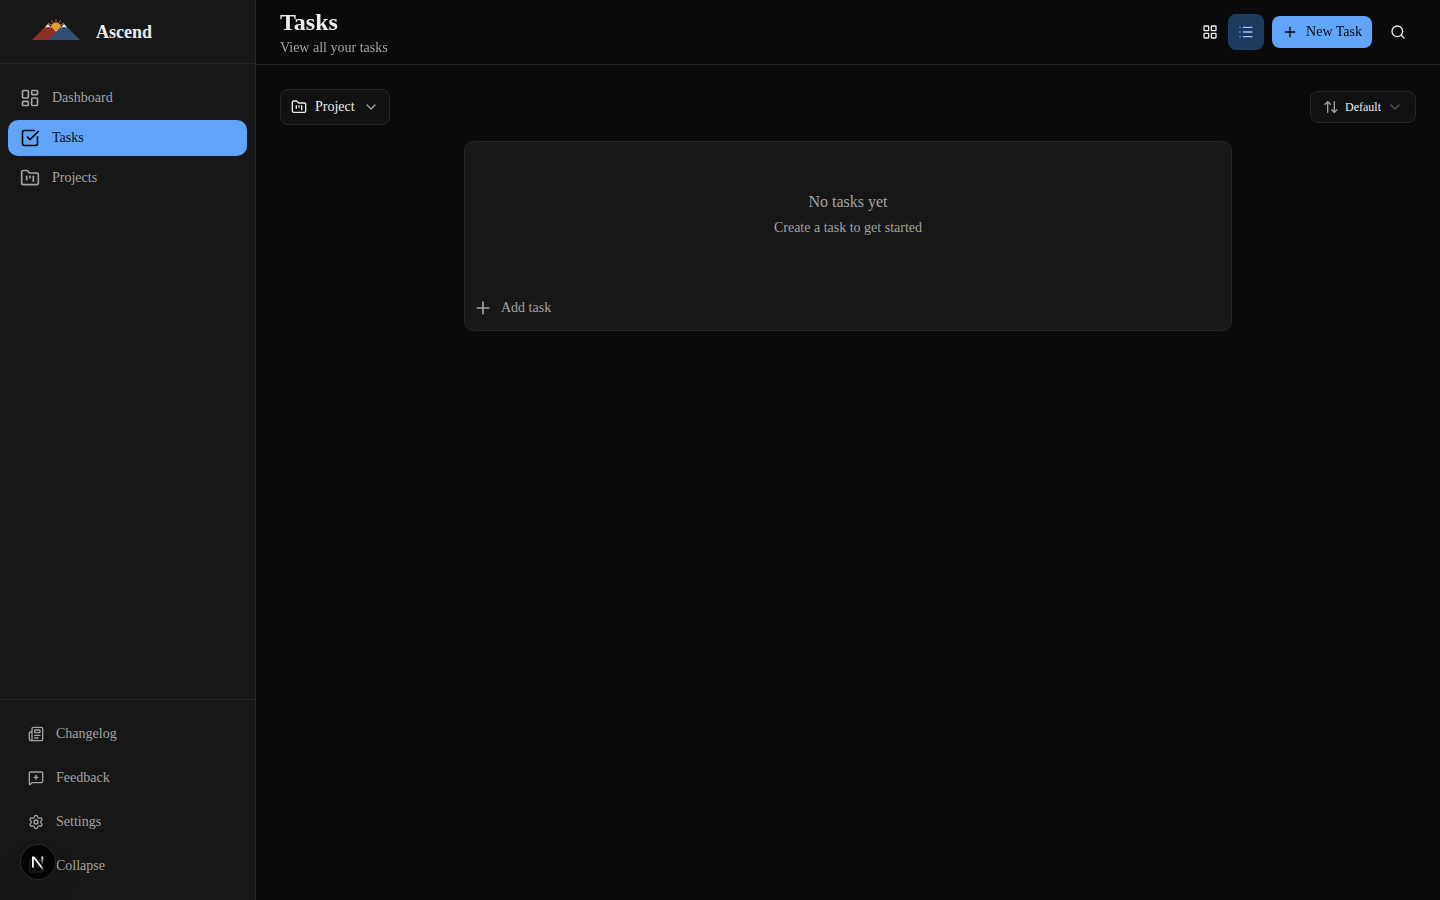
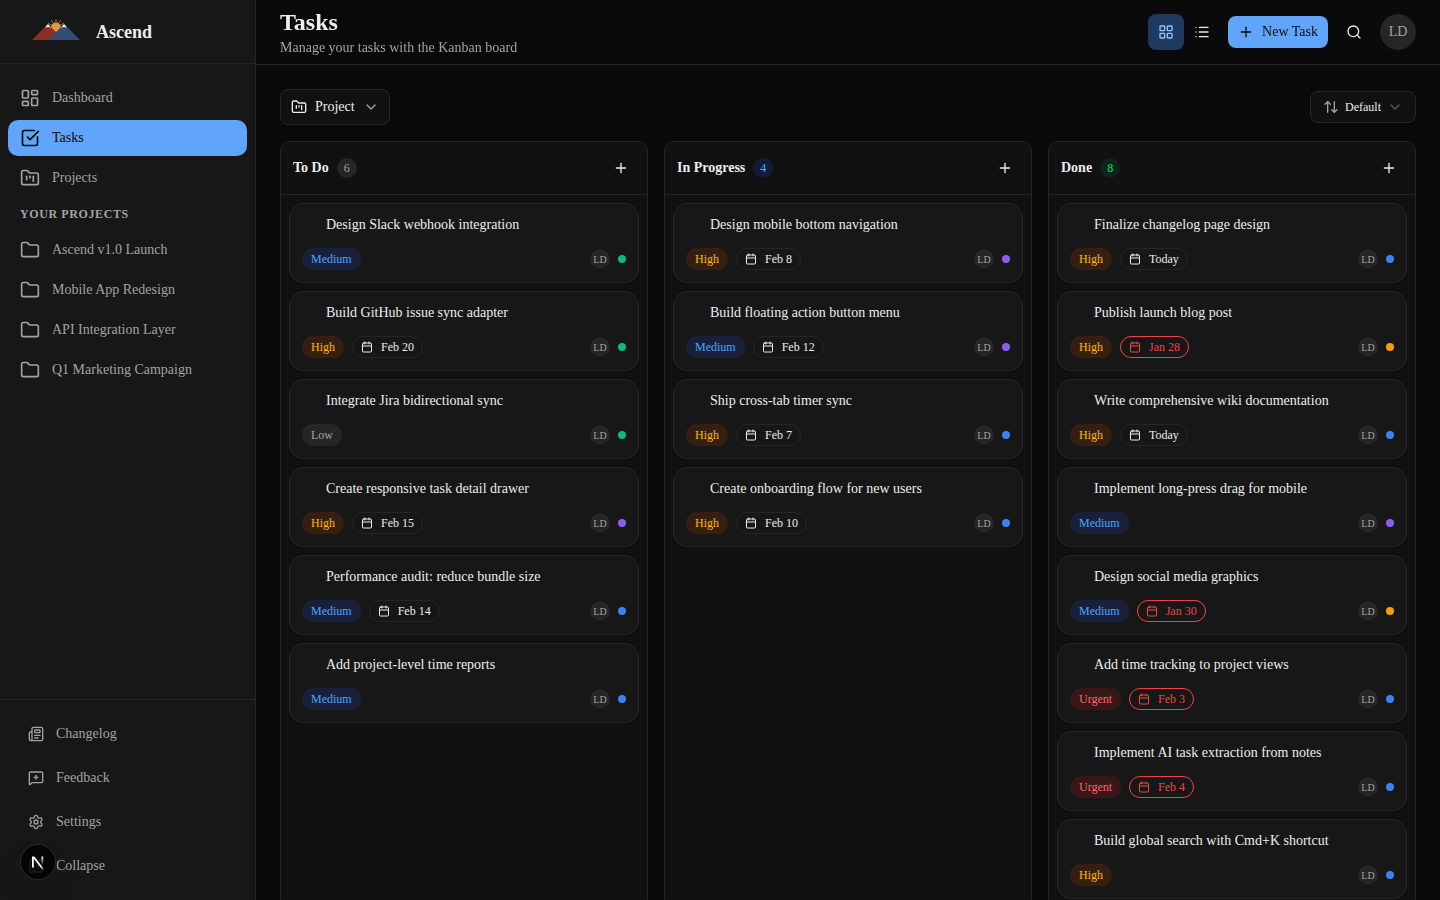
feat: Update wiki screenshots with populated mock data and add more images
Replace empty-state screenshots with fully populated app views using
Playwright route interception with mock Supabase data. Adds dashboard,
notes, project-detail, and tasks-list images to wiki sections.

https://claude.ai/code/session_01MER6kGEybk2QDVp9xJF8wA

diff --git a/src/app/wiki/page.tsx b/src/app/wiki/page.tsx
@@ -106,6 +106,11 @@ const sections: WikiSection[] = [
         paragraphs: [
           "The Dashboard is the first screen you see after logging in. It provides a bird's-eye view of your work with statistics cards, recent projects, and a quick start guide.",
         ],
+        image: {
+          src: "/wiki/dashboard.png",
+          alt: "Dashboard overview with statistics and recent projects",
+          caption: "The Dashboard showing active projects, task statistics, and quick start guide",
+        },
       },
       {
         heading: "Statistics Cards",
@@ -231,6 +236,11 @@ const sections: WikiSection[] = [
           "Resources — Manage links, documents, and note attachments.",
           "Properties Panel — Edit project metadata including status, priority, color, lead, due date, members, and total time tracked.",
         ],
+        image: {
+          src: "/wiki/project-detail.png",
+          alt: "Project detail page with tasks, notes, and properties",
+          caption: "The project detail page showing active tasks, notes, resources, and the properties panel",
+        },
       },
       {
         heading: "Project Properties",
@@ -264,6 +274,11 @@ const sections: WikiSection[] = [
         paragraphs: [
           "Notes live within projects and are designed for meeting notes, planning documents, or any text content that relates to your work. Each note uses a rich WYSIWYG editor powered by TipTap.",
         ],
+        image: {
+          src: "/wiki/notes.png",
+          alt: "Note editor with rich text and linked tasks",
+          caption: "A note with rich text formatting, AI task extraction, and linked tasks section",
+        },
       },
       {
         heading: "Creating and Editing Notes",
